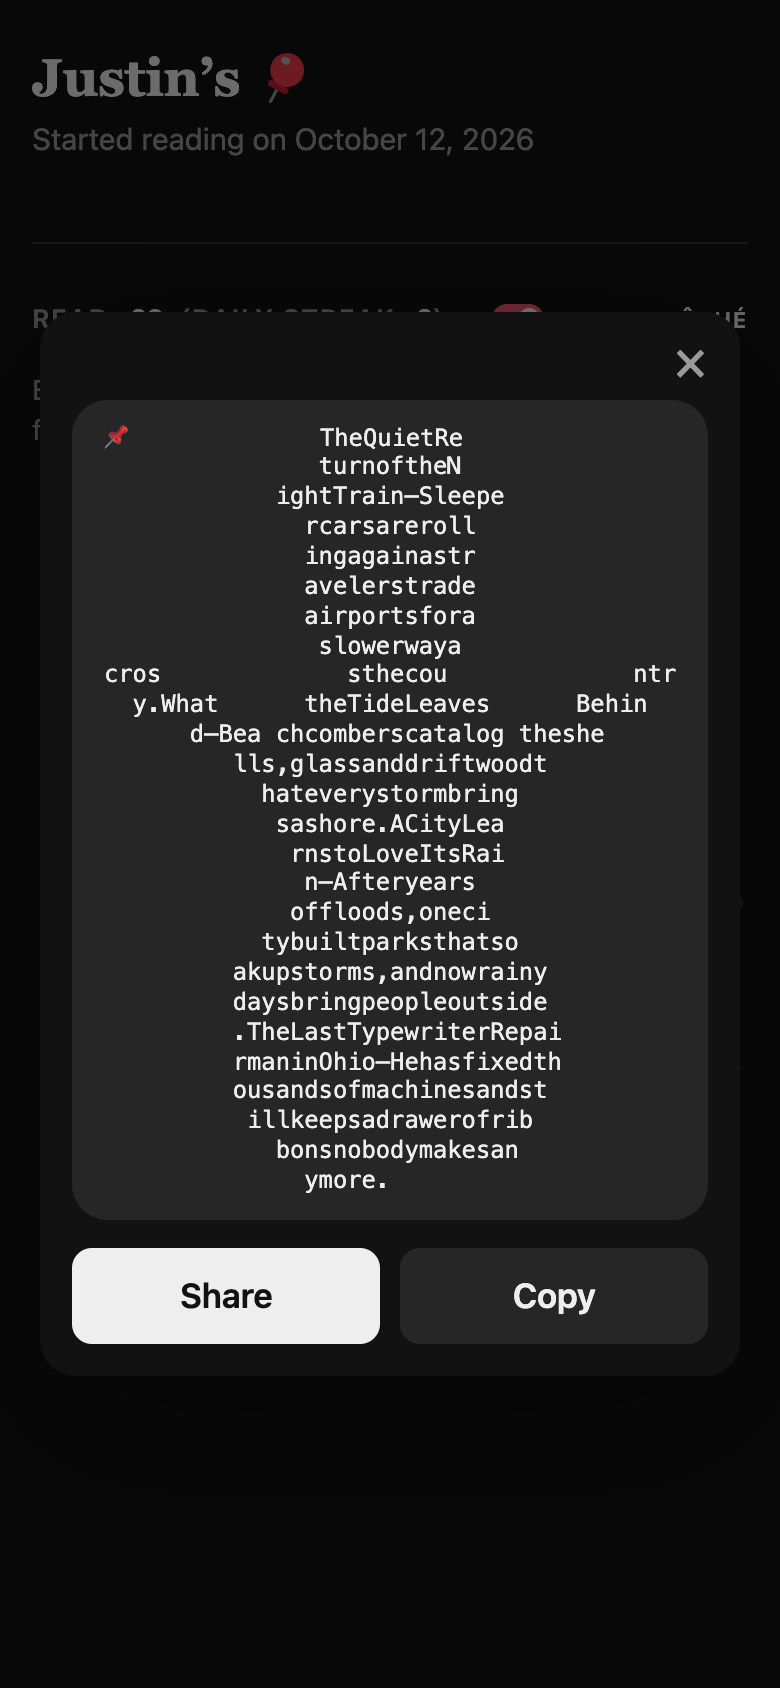
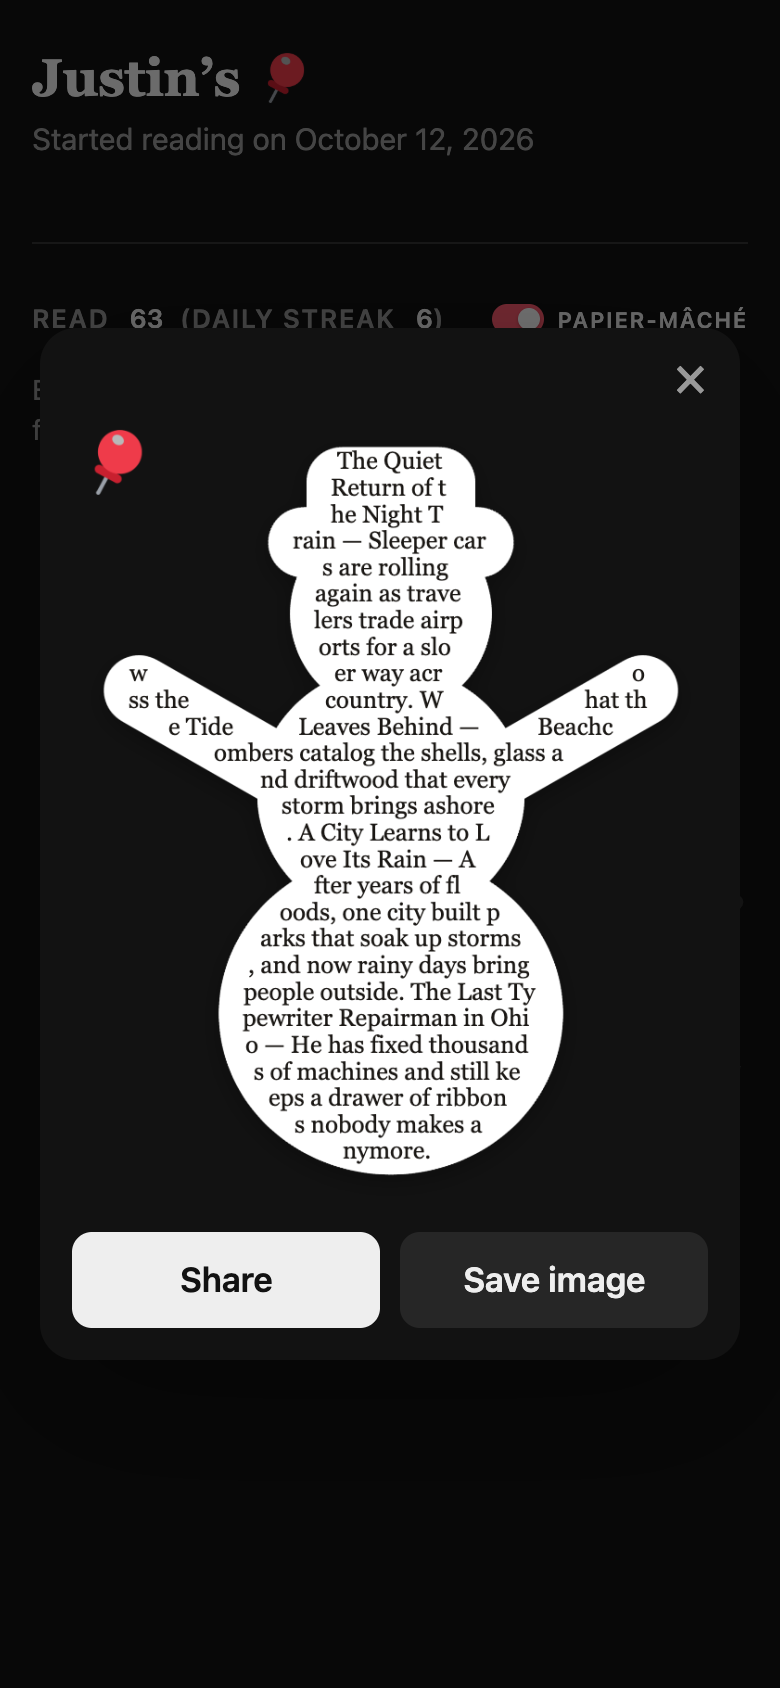
Share a finished day as a sticker image (word art on a white die-cut with shadow and the pin, transparent PNG): Share and Save image; the text version is gone

diff --git a/src/pushpin/cards.py b/src/pushpin/cards.py
@@ -89,11 +89,11 @@ box-shadow:0 1px 2px rgba(0,0,0,.3);transition:transform .25s ease}
 .papier .dino:active{transform:scale(.94)}
 .sharecard{border:0;padding:44px 16px 16px;border-radius:18px;background:var(--bg);color:var(--fg);width:min(92vw,420px);
 box-sizing:border-box;box-shadow:0 24px 80px rgba(0,0,0,.35)}.sharecard::backdrop{background:rgba(0,0,0,.55)}
-.sharecard pre{margin:0 auto;width:fit-content;max-width:100%;padding:12px 16px;border-radius:18px;background:var(--btn);
-font:13px/1.25 ui-monospace,Menlo,monospace;white-space:pre;overflow-x:auto}
+.sharecard img{display:block;max-width:100%;max-height:58vh;margin:0 auto;min-height:120px;object-fit:contain}
+.sharecard .save{flex:1;text-align:center;font-weight:600;padding:12px;border-radius:10px;background:var(--btn);color:var(--fg);text-decoration:none}
 .sharecard .x{position:absolute;top:6px;right:8px;font:28px/1 -apple-system,system-ui,sans-serif;border:0;background:none;color:var(--muted);padding:4px 8px;cursor:pointer}
 .sharecard .row{margin-top:14px}.sharecard .go{background:var(--fg);color:var(--bg)}
-.sharecard:has(.go[hidden]) .copy{background:var(--fg);color:var(--bg)}.papier figcaption{font-size:10px;letter-spacing:.06em;text-transform:uppercase;color:var(--muted);text-align:center;margin-top:2px}
+.sharecard:has(.go[hidden]) .save{background:var(--fg);color:var(--bg)}.papier figcaption{font-size:10px;letter-spacing:.06em;text-transform:uppercase;color:var(--muted);text-align:center;margin-top:2px}
 .profile .sub{color:var(--muted);font-size:15px;margin:0}.profile header .toggle{margin:12px 0 6px}
 .profile section{border-top:1px solid var(--line);padding:24px 0 8px}
 .profile h2{font-size:13px;letter-spacing:.06em;text-transform:uppercase;color:var(--muted);font-weight:600;margin:0 0 12px}
@@ -709,84 +709,63 @@ function draw(canvas, text, built, flip, animate, kind, delay, past) {
   requestAnimationFrame(frame);
 }
 // ---- share card ----
-// Tapping a dinosaur opens it as text to paste in any chat: the dinosaur as its headline's letters
-// on a character grid, with spaces around it and a pin in the top left corner. It lines up in a
-// monospace font; in a chat's proportional one it leans and wobbles, which is part of the charm.
-function textDino(day, kind) {
-  const w = 400, h = 256, on = silhouette(w, h, day.flip, kind);
-  let x0 = w, x1 = 0, y0 = h, y1 = 0;  // crop to the shape
-  for (let y = 0; y < h; y++) for (let x = 0; x < w; x++) if (on(x, y)) {
+// The sticker: the word art as an image, so it looks the same in any chat. The day's words in
+// serif type on a white die-cut of the shape (the outline grown by a border, like a printed
+// sticker), with a soft shadow, the PushPin pin in the top left corner and a transparent
+// background, as a PNG. In Photos on iOS 17+, long-press it and Add Sticker to use it in Messages.
+const STICKER_INK = '#1a1714';
+let pinImage = null;
+const pinIcon = () => pinImage ??= new Promise(ok => {
+  const im = new Image(); im.onload = () => ok(im); im.onerror = () => ok(null); im.src = '/icon.png';
+});
+async function sticker(day, kind) {
+  const W = 1200, H = 768, shape = silhouette(W, H, day.flip, kind);
+  const {glyphs, fs} = fitted(W, H, day.text, shape, Math.round(W / 4));
+  let x0 = W, x1 = 0, y0 = H, y1 = 0;
+  for (let y = 0; y < H; y += 2) for (let x = 0; x < W; x += 2) if (shape(x, y)) {
     x0 = Math.min(x0, x); x1 = Math.max(x1, x); y0 = Math.min(y0, y); y1 = Math.max(y1, y);
   }
-  // how much of any rectangle is inside the shape, at once (a summed-area table over the crop)
-  const bw = x1 - x0 + 1, bh = y1 - y0 + 1, sat = new Float64Array((bw + 1) * (bh + 1));
-  for (let y = 0; y < bh; y++) for (let x = 0; x < bw; x++)
-    sat[(y + 1) * (bw + 1) + x + 1] = (on(x0 + x, y0 + y) ? 1 : 0) + sat[y * (bw + 1) + x + 1] + sat[(y + 1) * (bw + 1) + x] - sat[y * (bw + 1) + x];
-  const area = (xa, ya, xb, yb) => sat[yb * (bw + 1) + xb] - sat[ya * (bw + 1) + xb] - sat[yb * (bw + 1) + xa] + sat[ya * (bw + 1) + xa];
-  // a grid cols wide, with characters `tall` times as tall as wide (about 2 in a chat), whose cells
-  // are inside the shape when more than `share` of them is
-  const grid = (cols, share, tall) => {
-    const cw = bw / cols, ch = cw * tall, rows = Math.round(bh / ch), cells = [];
-    let count = 0;
-    for (let r = 0; r < rows; r++) {
-      const row = [], ya = Math.floor(r * ch), yb = Math.min(bh, Math.floor((r + 1) * ch));
-      for (let c = 0; c < cols; c++) {
-        const xa = Math.floor(c * cw), xb = Math.min(bw, Math.floor((c + 1) * cw)), t = (xb - xa) * (yb - ya);
-        const v = t > 0 && area(xa, ya, xb, yb) / t > share;
-        row.push(v); count += v;
-      }
-      cells.push(row);
-    }
-    return {cells, count, cols, share};
-  };
-  // Everything read that day, each once: every title followed by its whole abstract, starting with
-  // the first title and ending on the period, no spaces inside the shape (so it has no holes). The
-  // shape grows to fit the words, not the other way round: from the narrowest width up, grids (how
-  // much of a cell must be inside, how tall a character is) the letters fill, leaving at most part
-  // of the last line blank, and one picked at random among the narrowest few (seeded, so it's the
-  // same each time and differs between readers).
-  const r = rng(day.seed + ':share');
-  const parts = day.parts.map(p => ({title: p.title.replace(/\\s+/g, ''), abstract: p.words.join('')}));
-  const end = parts.length ? parts[parts.length - 1].abstract || parts[parts.length - 1].title : '';
-  const letters = parts.map(p => p.title + (p.abstract ? '—' + p.abstract : '')).join('') + (/[.!?]["”’]?$/.test(end) ? '' : '.');
-  // grids the letters fill, leaving at most part of the last line blank
-  const fits = []; let first = 0, roomy = null;
-  for (let cols = 10; cols <= 200 && !(first && cols > first + 3); cols++)
-    for (const share of [0.2, 0.25, 0.3, 0.35, 0.4, 0.45, 0.5]) for (const tall of [1.8, 1.9, 2, 2.1, 2.2]) {
-      const t = grid(cols, share, tall), lastRow = [...t.cells].reverse().find(row => row.some(Boolean)) || [];
-      if (t.count >= letters.length && t.count - letters.length <= lastRow.filter(Boolean).length) { fits.push(t); first ||= cols; }
-      else if (t.count > letters.length && (!roomy || t.count < roomy.count)) roomy = t;
-    }
-  const thin = fits.filter(t => t.share <= 0.3), pool = thin.length ? thin : fits;  // a low threshold keeps thin parts
-  const g = pool.length ? pool[Math.floor(r() * pool.length)] : roomy;
-  let i = 0;
-  const lines = g.cells.map(row => row.map(v => v ? letters[i++] ?? ' ' : ' ').join('').trimEnd());
-  while (lines.length && !lines[0]) lines.shift();
-  while (lines.length && !lines[lines.length - 1]) lines.pop();
-  // the pin in the top left corner, on the shape's top line: it takes about two columns
-  if (!lines[0].startsWith('  ')) for (let k = 0; k < lines.length; k++) lines[k] = '   ' + lines[k];  // no room: shift it all over
-  lines[0] = '📌' + lines[0].slice(2);
-  return lines.join('\\n');
+  const B = 26, P = B + 34, ox = P - x0, oy = P - y0;  // border, then room for the shadow
+  const out = document.createElement('canvas'); out.width = x1 - x0 + 2 * P; out.height = y1 - y0 + 2 * P;
+  const mask = document.createElement('canvas'); mask.width = W; mask.height = H;
+  dino(mask.getContext('2d'), W, H, day.flip, kind);
+  const cut = document.createElement('canvas'); cut.width = out.width; cut.height = out.height;
+  const cc = cut.getContext('2d');
+  for (let a = 0; a < 48; a++) cc.drawImage(mask, ox + B * Math.cos(a * Math.PI / 24), oy + B * Math.sin(a * Math.PI / 24));
+  cc.drawImage(mask, ox, oy);
+  cc.globalCompositeOperation = 'source-in'; cc.fillStyle = '#fff'; cc.fillRect(0, 0, cut.width, cut.height);
+  const c = out.getContext('2d');
+  c.shadowColor = 'rgba(0,0,0,.28)'; c.shadowBlur = 24; c.shadowOffsetY = 8; c.drawImage(cut, 0, 0);
+  c.shadowColor = 'transparent';
+  c.font = fs + 'px Georgia, "Times New Roman", serif'; c.textBaseline = 'middle'; c.fillStyle = STICKER_INK;
+  for (const g of glyphs) c.fillText(g[0], ox + g[1], oy + g[2]);
+  const im = await pinIcon();
+  if (im) c.drawImage(im, 8, 8, 84, 84);
+  return out;
 }
 let sheet = null;
 function share(day, kind) {
   if (!sheet) {
     sheet = document.createElement('dialog'); sheet.className = 'sharecard';
-    sheet.innerHTML = '<button type="button" class="x" aria-label="Close">×</button><pre></pre>'
-      + '<div class="row"><button type="button" class="go">Share</button><button type="button" class="copy">Copy</button></div>';
+    sheet.innerHTML = '<button type="button" class="x" aria-label="Close">×</button><img alt="">'
+      + '<div class="row"><button type="button" class="go">Share</button><a class="save" download>Save image</a></div>';
     sheet.querySelector('.x').addEventListener('click', () => sheet.close());
     sheet.addEventListener('click', ev => { if (ev.target === sheet) sheet.close(); });  // the backdrop
     document.body.append(sheet);
   }
-  const text = textDino(day, kind), pre = sheet.querySelector('pre'), go = sheet.querySelector('.go'), copy = sheet.querySelector('.copy');
-  pre.textContent = text; pre.setAttribute('aria-label', 'A ' + kind.name + ' drawn in text');
-  const widest = Math.max(...text.split('\\n').map(l => l.length));  // a big day: smaller type, so it all shows
-  pre.style.fontSize = Math.max(5, Math.min(13, (Math.min(innerWidth * 0.92, 420) - 64) / (widest * 0.62))) + 'px';
-  go.hidden = !navigator.share;
-  go.onclick = () => navigator.share({text}).catch(() => null);
-  copy.textContent = 'Copy';
-  copy.onclick = () => navigator.clipboard.writeText(text).then(() => { copy.textContent = 'Copied'; }, () => null);
+  const img = sheet.querySelector('img'), go = sheet.querySelector('.go'), save = sheet.querySelector('.save');
+  img.removeAttribute('src'); img.alt = 'A ' + kind.name + ' sticker made of the day’s articles';
+  go.hidden = true; save.removeAttribute('href');
   sheet.showModal();
+  sticker(day, kind).then(cv => {
+    const url = cv.toDataURL('image/png'), name = 'pushpin-' + day.seed.split(':').pop() + '-' + kind.name.toLowerCase().replace(/[^a-z]+/g, '-') + '.png';
+    img.src = url; save.href = url; save.download = name;
+    cv.toBlob(b => {  // made before the tap on Share, which iOS needs to share a file
+      const payload = {files: [new File([b], name, {type: 'image/png'})]};
+      go.hidden = !(navigator.canShare && navigator.canShare(payload));
+      go.onclick = () => navigator.share(payload).catch(() => null);
+    }, 'image/png');
+  });
 }
 // ---- end share card ----
 const kindOf = herd(data.dataset.seed || '');

diff --git a/tests/test_notifier.py b/tests/test_notifier.py
@@ -529,7 +529,8 @@ def test_papier_mache_only_with_a_visible_read_list():
     assert 'id="papier-on"' in own and "Each day’s pushes make a picture: read them all to finish it · 7 finished" in own
     head = re.search(r'<div class="readhead">.*?</div>', own).group(0)
     assert 'id="papier-on"' in head and 'class="papier-hint" hidden' in own  # switch in the Read header; hint until on
-    assert "Tap a finished one to share it" in own and "navigator.share({text})" in own  # a finished one shares as text
+    assert "Tap a finished one to share it" in own and "async function sticker(day, kind)" in own  # a finished one shares as a sticker
+    assert "Copy" not in own and "textDino" not in own  # no text version
     assert "snowman(c)" in own and "Lightning bolt" in own  # common symbols, not just dinosaurs
     panel = own[own.index('<div class="readpanel">'):]
     assert panel.index('class="list"') < panel.index('id="papier"')  # one panel, no fold

diff --git a/docs/demo-screens.md b/docs/demo-screens.md
@@ -40,65 +40,19 @@ today's word art".
 
 ## 4. Sharing a picture
 
-Tapping a finished picture opens it as text to paste into any chat: the shape spelled out in
-everything read that day, every title with its whole abstract, from the first title to the final
-period, with 📌 in the top left corner. The shape grows to fit the words, so a busy day makes a
-bigger picture, and only the last line may end a little short. Each picture is unique to its
-reader and day. **Share** opens the phone's share sheet; **Copy** copies it.
+Tapping a finished picture makes it a sticker: everything read that day, every title with its whole
+abstract, written into the shape on a white die-cut with a soft shadow and the PushPin pin in the
+corner, as a PNG with a transparent background. It looks the same in any chat, in light or dark
+mode, and each one is unique to its reader and day. **Share** opens the phone's share sheet with the
+image; **Save image** downloads it. On iOS 17+, long-press it in Photos and choose Add Sticker to
+use it as a sticker in Messages.
 
-<img src="screens/share-sheet.png" width="300" alt="Share sheet on the demo profile: a snowman spelled out in the letters of the day's articles, with Share and Copy buttons">
+<img src="screens/share-sheet.png" width="300" alt="Share sheet on the demo profile: the snowman sticker made of the day's articles, with Share and Save image buttons">
 
 The demo's snowman and Brontosaurus, each made of the four articles read that day:
 
-```
-📌             TheQuietRe
-               turnoftheN
-            ightTrain—Sleepe
-              rcarsareroll
-              ingagainastr
-              avelerstrade
-              airportsfora
-               slowerwaya
-cros             sthecou             ntr
-  y.What      theTideLeaves      Behin
-      d—Bea chcomberscatalog theshe
-         lls,glassanddriftwoodt
-           hateverystormbring
-            sashore.ACityLea
-             rnstoLoveItsRai
-              n—Afteryears
-             offloods,oneci
-           tybuiltparksthatso
-         akupstorms,andnowrainy
-         daysbringpeopleoutside
-         .TheLastTypewriterRepai
-         rmaninOhio—Hehasfixedth
-         ousandsofmachinesandst
-          illkeepsadrawerofrib
-            bonsnobodymakesan
-              ymore.
-```
-
-```
-📌                                           Insideth
-                                           eRacetoMapt
-                                          heOceanFloor
-                                         —Scientistsa
-                                       ndsonarshi
-                                      psarechart
-                    ingthevastseabedthatremain
-                slessknownthanthemoon.WhyEver
-            yoneIsBakingBreadAgain—Sourdoug
-         hstartersarepassedhandtohandashom
-       ebakersrediscoveraslow,patientcraft
-     .TheSecretLifeofSubwayPigeons—Thebird
-   sthatridethetrainsknowtheschedulesbett
-  erthanmanycommutersdo.HowaSmallTownSave
-dItsLibrary—Whenthecountycutitsbudget,res
-                   identsheldbakesa lesan
-                   draisedeno  ught okeep
-                   thed oorso  pen.
-```
+<img src="screens/sticker-snowman.png" width="260" alt="Snowman sticker: four articles' titles and abstracts written into a snowman on a white die-cut, with the PushPin pin">
+<img src="screens/sticker-brontosaurus.png" width="420" alt="Brontosaurus sticker: four articles' titles and abstracts written into a Brontosaurus on a white die-cut, with the PushPin pin">
 
 ## Before the first push: the welcome page
 
@@ -111,5 +65,5 @@ profile.
 
 Run a card server on a copy of the database, so a screenshot doesn't record a real open, and drive
 headless Chrome over the DevTools protocol: device metrics 390 × 844 at 2x with `mobile: true`, dark
-mode. For the share sheet, stub `navigator.share` (headless Chrome hides the button without it) and
-click a `.papier .dino`; the shared text is the dialog's `<pre>`.
+mode. For the share sheet, stub `navigator.canShare` and `navigator.share` (headless Chrome hides the
+button without them) and click a `.papier button.dino`; the sticker is the dialog `<img>`'s data URL.

diff --git a/README.md b/README.md
@@ -39,9 +39,9 @@ or the iOS app. Readers choose a volume: light (2 a day: morning, night), medium
 Tapping a push opens the reader's profile. Each day's pushes make a small papier-mâché picture (a
 snowman, a heart, a star, a dinosaur...) out of the titles and abstracts of the articles read, and
 it's finished only when the reader has read all of that day's pushes. Tapping a finished one turns
-it into text to share in any chat, with 📌 in the top left corner. Each day's picture is unique to
-that day and reader. Every push and tap is logged as labeled data that MIND lacks. The plan is to
-retrain the model each week on these logs. It can also deploy to GCP for about $1/month.
+it into a sticker to share in any chat. Each day's picture is unique to that day and reader. Every
+push and tap is logged as labeled data that MIND lacks. The plan is to retrain the model each week
+on these logs. It can also deploy to GCP for about $1/month.
 
 ## Proposed A/B test
 
